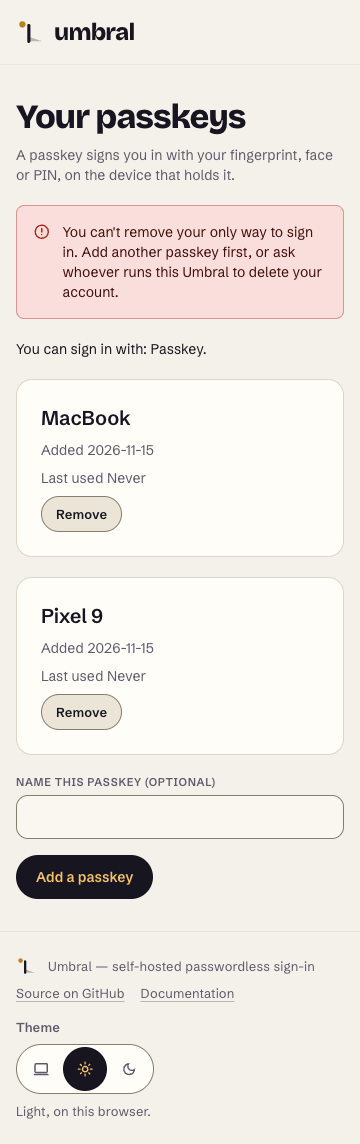
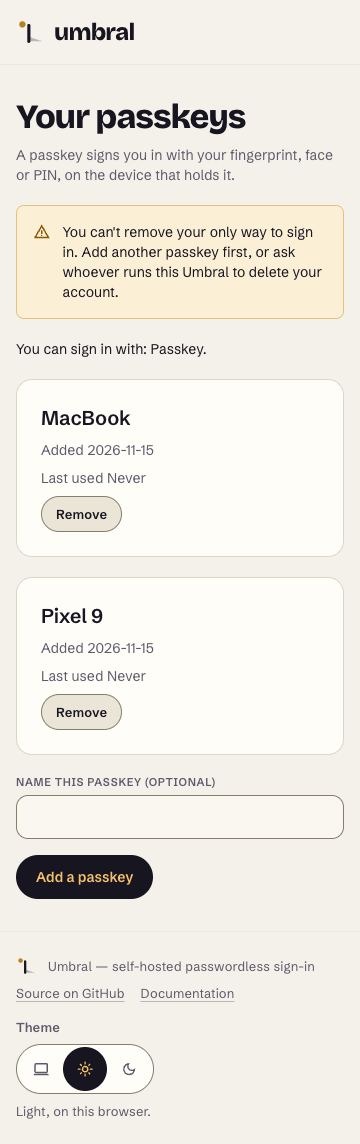
fix(njtn): rule refusals on Your passkeys are warnings (design review nit)
passkey-last-cannot-remove, passkey-limit-reached and passkey-not-found
are Warning, as rule refusals are on the operator screens; red stays for
passkey-registration-failed. Test covers all six codes; changelog
sentence, captures retaken, design review (clear) and notes.

Full suite 3004 of 3004.

Changed region(s): [[0.1833, 0.2142, 0.6722, 0.2448], [0.7028, 0.2142, 0.825, 0.2448], [0.0917, 0.1836, 0.1528, 0.2142]]

diff --git a/.alta/reviews/2026-11-15-passkey-notices/notes.md b/.alta/reviews/2026-11-15-passkey-notices/notes.md
@@ -7,9 +7,10 @@ Branch `alta/glad-gentian-hpdg`, on main `4958e12`. Task file:
 
 - `src/Umbral/Handlers/Passkeys/Account.fs`: the page has a notice helper of its own, built like the
   Credential page's (`<div data-notice="{code}">` around `Components.alert`). `passkey-added` and
-  `passkey-removed` are `Success` (green, check icon, `role="status"`). Every other known code
-  (`passkey-not-found`, `passkey-last-cannot-remove`, `passkey-registration-failed`,
-  `passkey-limit-reached`) stays `Failure` (red, `role="alert"`).
+  `passkey-removed` are `Success` (green, check icon, `role="status"`). The refusals that follow a
+  rule (`passkey-last-cannot-remove`, `passkey-limit-reached`, `passkey-not-found`) are `Warning`
+  (the design review's nit, as on the operator screens). `passkey-registration-failed` stays
+  `Failure` (red).
 - `src/Umbral/Handlers/Passkeys/SignIn.fs`: `noticeCode` reads `?msg=` through `Texts.knownNotice`
   (one place for "never any other text from the address"). `noticeAlert` uses it and stays a failure
   for the sign-in and invitation pages, which are only sent back with a failure.
@@ -18,9 +19,9 @@ Branch `alta/glad-gentian-hpdg`, on main `4958e12`. Task file:
 
 ## Tests
 
-`PasskeyAccountTests`: "the page's notice is a success for a passkey added or removed and a failure
-for a refusal". It checks the class and role for the two successes and the two refusals, and that an
-unknown code draws nothing. The sign-in page's failure notice is already covered in
+`PasskeyAccountTests`: "the page's notice is a success for a passkey added or removed, a warning for
+a rule and a failure for a ceremony". It checks the class and role for each of the six codes the page
+is sent back with, and that an unknown code draws nothing. The sign-in page's failure notice is already covered in
 `PasskeyCeremonyTests` (`msg=passkey-sign-in-failed`).
 
 ## Captures
@@ -35,13 +36,19 @@ person signs up with Chrome's virtual authenticator (one authenticator per key).
 | --- | --- | --- |
 | `notice-added` | the real Add ceremony (redirect `?msg=passkey-added`) | "Your passkey is ready." green, check icon |
 | `notice-removed` | a spare key added, then the real Remove | "Passkey removed." green, check icon |
-| `notice-last` | `?msg=passkey-last-cannot-remove` | red, as before |
-| `notice-not-found` | `?msg=passkey-not-found` | red, as before |
+| `notice-last` | `?msg=passkey-last-cannot-remove` | warning (amber, warning icon) |
+| `notice-not-found` | `?msg=passkey-not-found` | warning (amber, warning icon) |
+
+All 16 shots were retaken after the nit.
 
 The docs screenshot of Your passkeys (task v6pm, `site/scripts/screenshots/`) is taken after a reload,
 so it shows no notice. It needs no retake for this change. The v6pm note "retake after njtn" can go.
 
 ## Verification
 
-- Passkey tests (`PasskeyAccountTests`, `PasskeyCeremonyTests`, `PasskeyInvitationTests`): 77 of 77.
-- Full suite: running (result below when it lands).
+- At 84edf46, the passkey tests (`PasskeyAccountTests`, `PasskeyCeremonyTests`,
+  `PasskeyInvitationTests`): 77 of 77.
+- Design review: clear, one nit (taken); no re-check needed (review.md).
+- Full suite after the nit (the working tree committed with this note): **3004 of 3004** passed, 0 skipped
+  (Debug, 33 min 19 s). An earlier run crashed in the .NET runtime under memory pressure while
+  another worktree's suite ran; this one ran alone.

diff --git a/.alta/reviews/2026-11-15-passkey-notices/review.md b/.alta/reviews/2026-11-15-passkey-notices/review.md
@@ -1,0 +1,30 @@
+# Design review: the notices on Your passkeys
+
+Task njtn. Branch `alta/glad-gentian-hpdg`, `84edf46`. Reviewed 2026-11-15 by the design
+reviewer from two of the sixteen captures (`notice-added-360-light`, `notice-last-1280-dark`)
+and the implementer's description of the change.
+
+## Verdict
+
+**Clear to merge. No blocking items; one nit.**
+
+- "Your passkey is ready." is a Success alert with the check icon; the description says
+  "Passkey removed." is the same. That is the fix.
+- A refusal still reads as one, under the heading, with the next action in its sentence.
+
+## Nit
+
+1. **Two of the four refusals are rules, not failures.** On the operator screens a refusal
+   that follows a rule is a Warning alert and red is kept for something that went wrong. Here
+   that would be: `passkey-last-cannot-remove` and `passkey-limit-reached` as Warning;
+   `passkey-registration-failed` stays Failure; `passkey-not-found` as Warning, like the
+   "already removed" notices elsewhere. Take it here if the helper makes it one line each;
+   otherwise leave it and it goes to the queue.
+
+## Outside this task
+
+The rows on this page predate two later decisions: a row's Remove is a ghost in the error
+colour with a confirm (One Red Fill rule), and a passkey's dates read "Added 2026-11-15 ·
+Never used". Passed to the queue as its own small task.
+
+No re-check needed.

diff --git a/changelog.d/fix-passkey-account-notices.md b/changelog.d/fix-passkey-account-notices.md
@@ -2,4 +2,6 @@
 
 - On **Your passkeys**, "Your passkey is ready." (after adding a passkey or redeeming an
   invitation) and "Passkey removed." are now shown as green success notices. Before, they were
-  drawn as red errors with the warning icon. The refusals on that page stay red.
+  drawn as red errors with the warning icon. A refusal that follows a rule (your only way to
+  sign in, the most passkeys an account can hold, a passkey already gone) is now a warning;
+  red is kept for a passkey that could not be saved.
